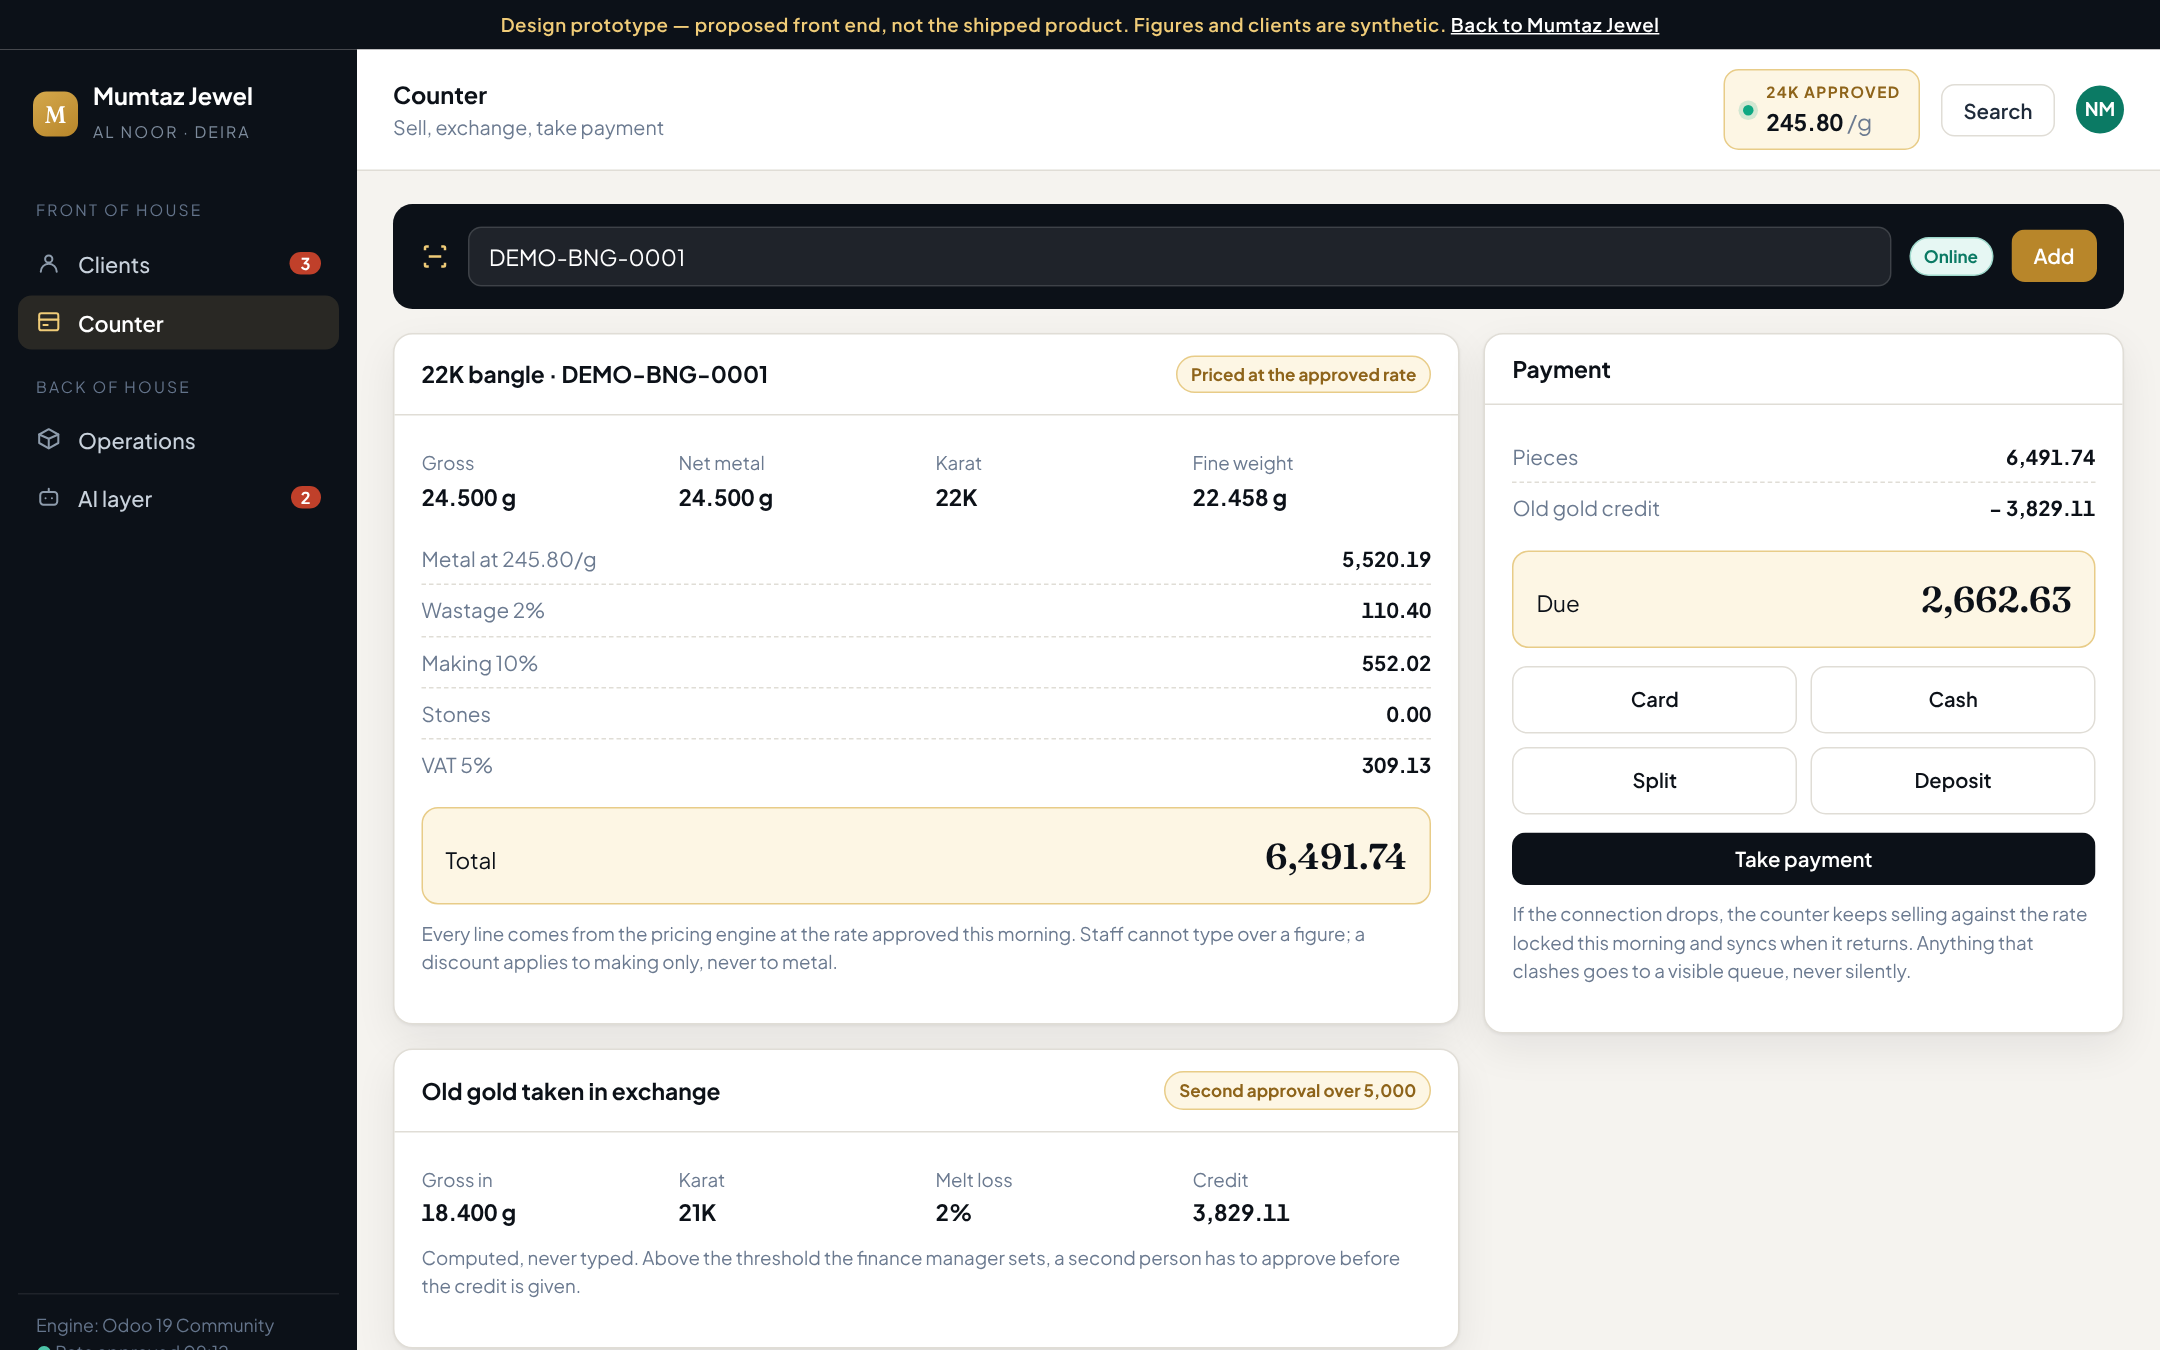
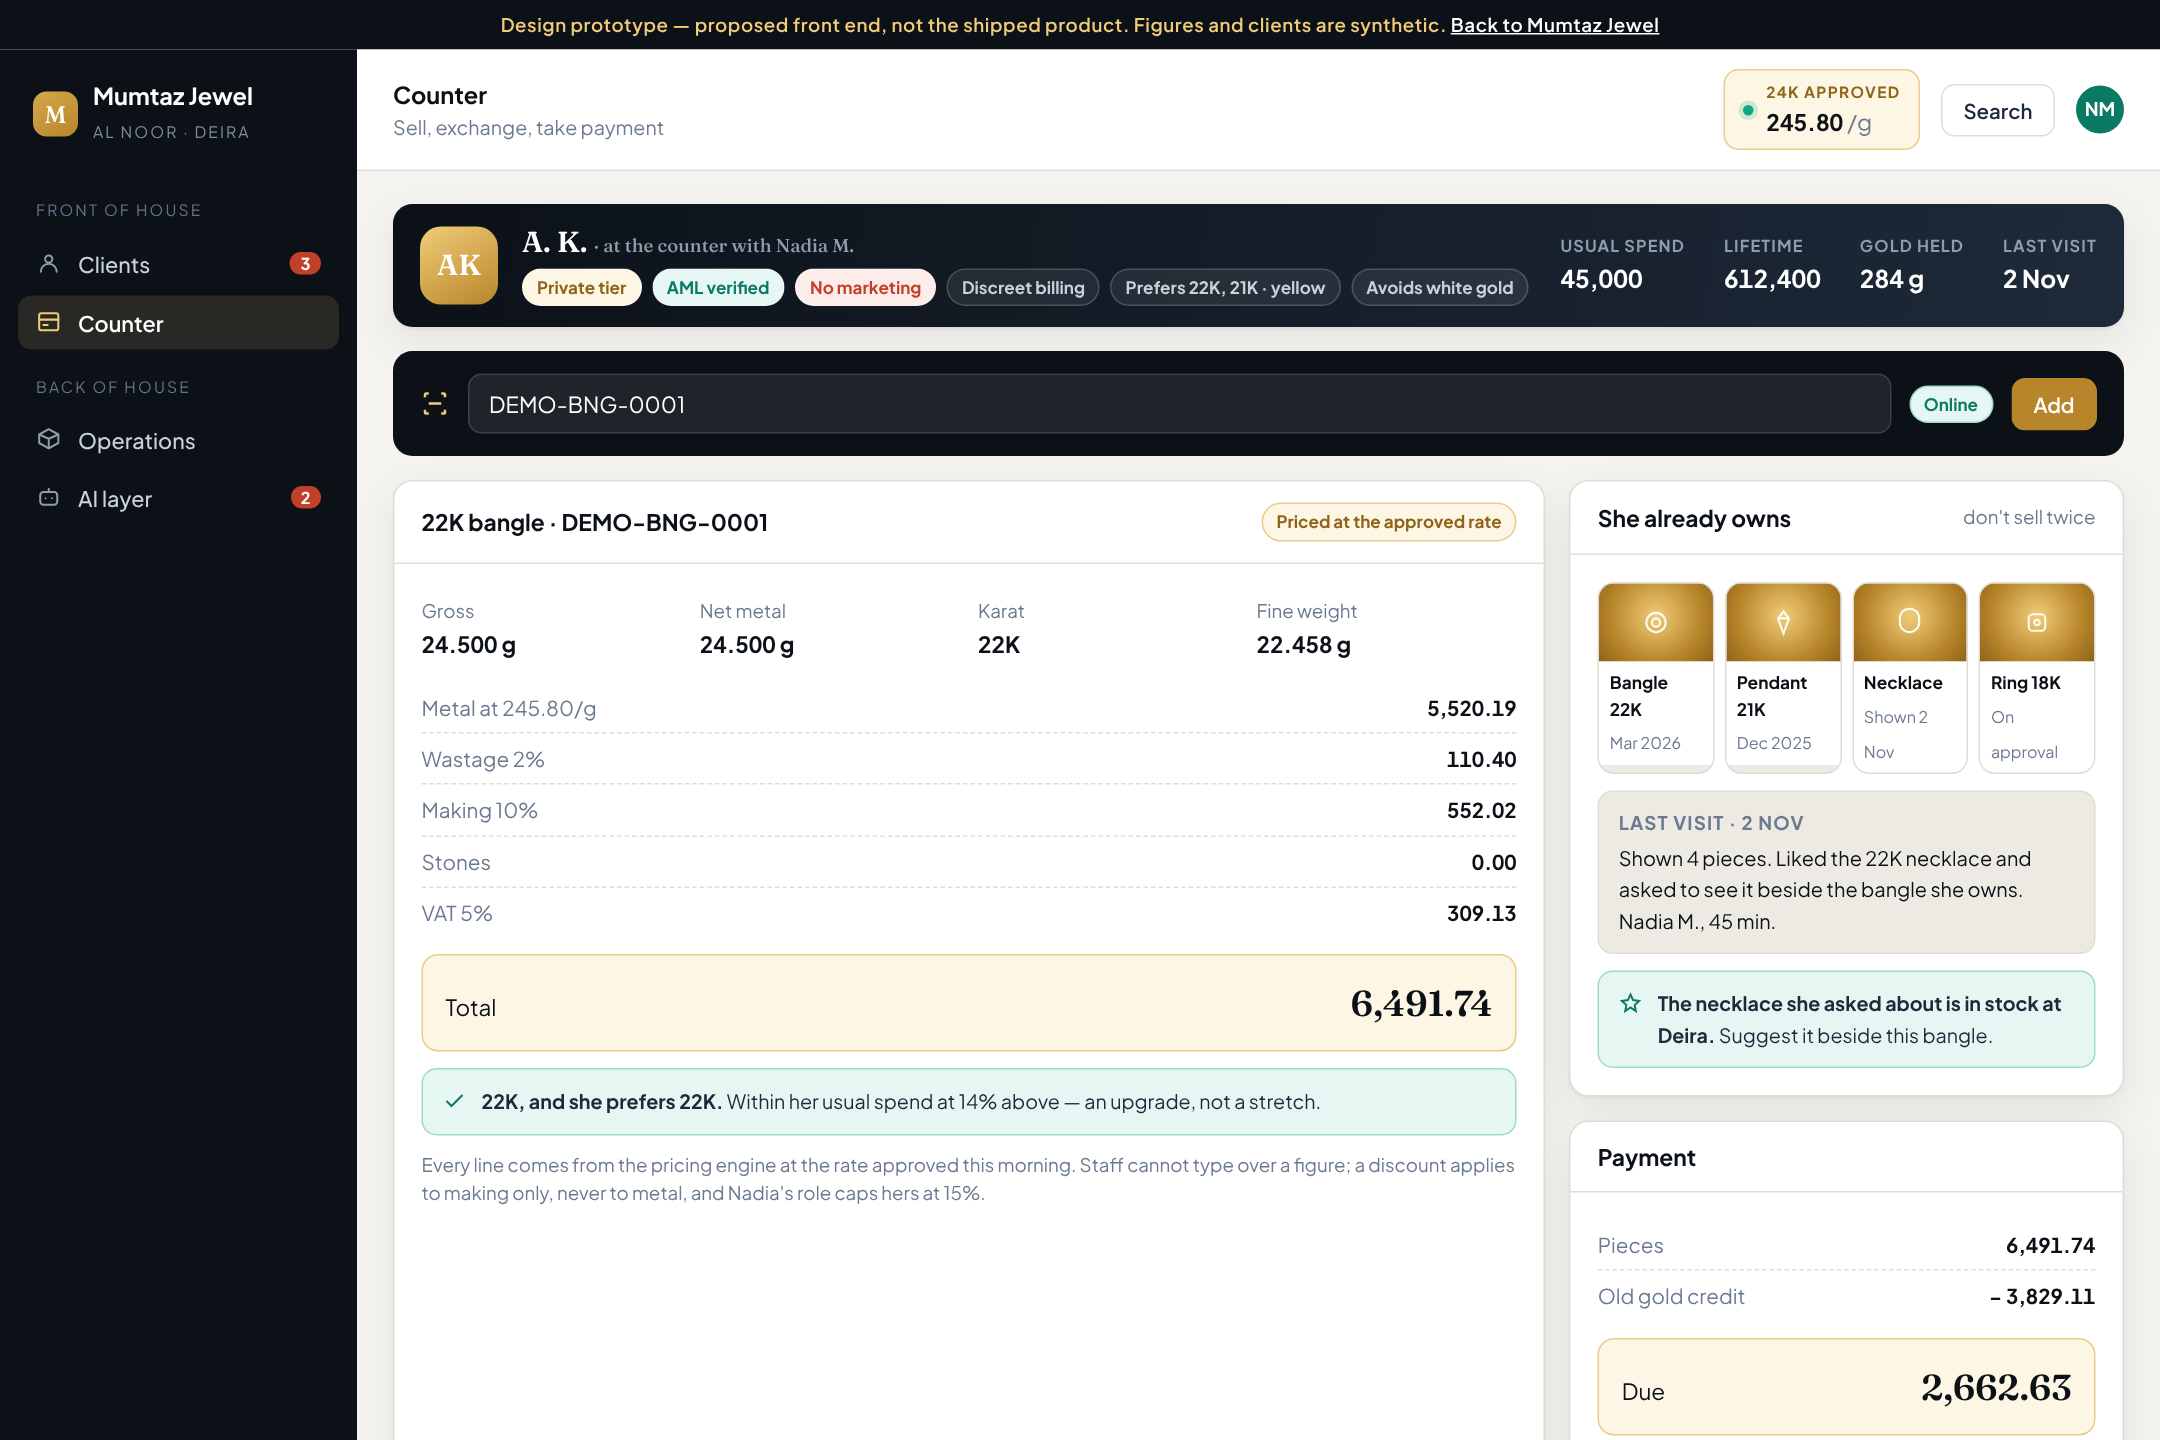
Counter: put the client file on the till, not behind a tab
The counter and Client 360 were two screens, which in practice means the
associate never opens the second one. They are now one.

Above the sale: a client strip with tier, AML status, discreet billing and
the no-marketing flag, plus preferences, usual spend, lifetime and gold held.
Beside the sale: the pieces she already owns, as photographs, so nobody sells
a second version of something she has; the note from her last visit, in her
associate's words; and the piece she asked about last time, flagged as in
stock.

The sale now checks itself against her file while it is rung up. The karat
matches her preference and the amount sits 14% above her usual spend, which
is shown as an upgrade rather than a flag. The old-gold panel says what her
gold held drops to once the exchange is taken in.

The part that earns its place: the payment panel warns that taking this sale
in cash moves her year-to-date cash from 38% to 104% of the configured
reporting threshold, and suggests card or split. A compliance limit is only
useful at the moment the money is counted, not in a report next month. The
threshold is still stated as configuration the finance manager sets per
country, never a rule the software invented.

Rendered at 1440 and 390 wide: no console errors, no horizontal scroll.

Claude-Session: https://claude.ai/code/session_018dxTtPFS3me13fvtELDnhU

diff --git a/website/jewel/preview/index.html b/website/jewel/preview/index.html
@@ -147,6 +147,31 @@ td{padding:11px 18px;border-top:1px solid var(--paper3)}
 .pay{display:grid;grid-template-columns:1fr 1fr;gap:9px;margin-top:12px}
 .paybtn{border:1px solid var(--paper3);background:var(--surface);border-radius:10px;padding:11px;text-align:center;font-size:.84rem;font-weight:600}
 
+/* counter: client context */
+.cstrip{display:grid;grid-template-columns:auto 1fr auto;gap:16px;align-items:center;padding:14px 18px;background:
+  linear-gradient(100deg,var(--ink) 0%,var(--rail2) 58%,#1E2A3A 100%);color:#fff;border-radius:var(--r);box-shadow:var(--shadow)}
+.cstrip .ava{width:52px;height:52px;border-radius:14px;font-size:1.2rem}
+.cstrip h3{font-family:var(--display);font-size:1.2rem;font-weight:600;color:#fff}
+.cstrip .meta{margin-top:6px}
+.cstrip .chip{border-color:rgba(255,255,255,.18)}
+.cstrip .c-dark{background:rgba(255,255,255,.08);color:#C9D2DC}
+.cstrip .facts div small{color:#8E9CAC}
+.cstrip .facts div b{color:#fff}
+.owns{display:grid;grid-template-columns:repeat(4,1fr);gap:7px}
+.owns .pc .im{height:52px}
+.owns .pc .im svg{width:22px;height:22px}
+.owns .pc .lb{padding:5px 7px}
+.owns .pc .lb b{font-size:.72rem}
+.owns .pc .lb span{font-size:.67rem}
+.warn{display:flex;gap:10px;align-items:flex-start;padding:11px 13px;background:var(--coral-bg);border:1px solid var(--coral-border);border-radius:10px;font-size:.82rem;color:var(--ink2);margin-top:11px}
+.warn svg{width:16px;height:16px;stroke:var(--coral);fill:none;stroke-width:2;flex:none;margin-top:2px}
+.ok{display:flex;gap:10px;align-items:flex-start;padding:11px 13px;background:var(--teal-bg);border:1px solid var(--teal-border);border-radius:10px;font-size:.82rem;color:var(--ink2);margin-top:11px}
+.ok svg{width:16px;height:16px;stroke:var(--teal);fill:none;stroke-width:2;flex:none;margin-top:2px}
+.lastv{padding:11px 13px;background:var(--paper2);border:1px solid var(--paper3);border-radius:10px;font-size:.83rem}
+.lastv b{display:block;font-size:.78rem;letter-spacing:.06em;text-transform:uppercase;color:var(--ink3);margin-bottom:4px}
+.counter3{display:grid;grid-template-columns:1.35fr .65fr;gap:16px;margin-top:16px}
+@media (max-width:1180px){.counter3{grid-template-columns:1fr}.cstrip{grid-template-columns:1fr;text-align:left}}
+
 /* agents */
 .agent{display:grid;grid-template-columns:auto 1fr auto;gap:14px;align-items:start;padding:16px 18px;border-top:1px solid var(--paper3)}
 .agent:first-of-type{border-top:0}
@@ -324,15 +349,38 @@ td{padding:11px 18px;border-top:1px solid var(--paper3)}
 
       <!-- ============ COUNTER / POS ============ -->
       <section class="screen" id="s-pos">
-        <div class="scan" style="margin-bottom:16px">
+
+        <div class="cstrip">
+          <div class="ava">AK</div>
+          <div>
+            <h3>A. K. <span class="tiny" style="font-weight:400;color:#8E9CAC">· at the counter with Nadia M.</span></h3>
+            <div class="meta">
+              <span class="chip c-gold">Private tier</span>
+              <span class="chip c-teal">AML verified</span>
+              <span class="chip c-coral">No marketing</span>
+              <span class="chip c-dark">Discreet billing</span>
+              <span class="chip c-dark">Prefers 22K, 21K · yellow</span>
+              <span class="chip c-dark">Avoids white gold</span>
+            </div>
+          </div>
+          <div class="facts">
+            <div><small>Usual spend</small><b class="num">45,000</b></div>
+            <div><small>Lifetime</small><b class="num">612,400</b></div>
+            <div><small>Gold held</small><b class="num">284 g</b></div>
+            <div><small>Last visit</small><b>2 Nov</b></div>
+          </div>
+        </div>
+
+        <div class="scan" style="margin-top:16px">
           <svg viewBox="0 0 24 24" style="width:20px;height:20px;stroke:var(--gold3);fill:none;stroke-width:2"><path d="M4 7V5a1 1 0 011-1h2M17 4h2a1 1 0 011 1v2M20 17v2a1 1 0 01-1 1h-2M7 20H5a1 1 0 01-1-1v-2M7 12h10"/></svg>
           <input placeholder="Scan a tag, or type a piece number…" value="DEMO-BNG-0001">
           <span class="chip c-teal">Online</span>
           <button class="btn b-gold">Add</button>
         </div>
 
-        <div class="pos">
+        <div class="counter3">
           <div class="g" style="gap:16px">
+
             <div class="card">
               <div class="hd"><h3>22K bangle · DEMO-BNG-0001</h3><span class="sp"></span><span class="chip c-gold">Priced at the approved rate</span></div>
               <div class="pad">
@@ -350,7 +398,11 @@ td{padding:11px 18px;border-top:1px solid var(--paper3)}
                   <div class="r"><span class="muted">VAT 5%</span><b class="num">309.13</b></div>
                 </div>
                 <div class="tot"><span>Total</span><b class="num">6,491.74</b></div>
-                <p class="note">Every line comes from the pricing engine at the rate approved this morning. Staff cannot type over a figure; a discount applies to making only, never to metal.</p>
+                <div class="ok">
+                  <svg viewBox="0 0 24 24"><path d="M20 6L9 17l-5-5"/></svg>
+                  <div><b>22K, and she prefers 22K.</b> Within her usual spend at 14% above — an upgrade, not a stretch.</div>
+                </div>
+                <p class="note">Every line comes from the pricing engine at the rate approved this morning. Staff cannot type over a figure; a discount applies to making only, never to metal, and Nadia's role caps hers at 15%.</p>
               </div>
             </div>
 
@@ -363,28 +415,58 @@ td{padding:11px 18px;border-top:1px solid var(--paper3)}
                   <div><small class="tiny muted">Melt loss</small><div><b class="num">2%</b></div></div>
                   <div><small class="tiny muted">Credit</small><div><b class="num">3,829.11</b></div></div>
                 </div>
-                <p class="note">Computed, never typed. Above the threshold the finance manager sets, a second person has to approve before the credit is given.</p>
+                <p class="note">Computed, never typed. Her gold held drops to 266 g once this is taken in, and the client file records which piece it came from.</p>
               </div>
             </div>
+
           </div>
 
-          <div class="card" style="align-self:start">
-            <div class="hd"><h3>Payment</h3></div>
-            <div class="pad">
-              <div class="brk">
-                <div class="r"><span class="muted">Pieces</span><b class="num">6,491.74</b></div>
-                <div class="r"><span class="muted">Old gold credit</span><b class="num">− 3,829.11</b></div>
+          <div class="g" style="gap:16px;align-content:start">
+
+            <div class="card">
+              <div class="hd"><h3>She already owns</h3><span class="sp"></span><span class="tiny muted">don't sell twice</span></div>
+              <div class="pad">
+                <div class="owns">
+                  <div class="pc"><div class="im"><svg viewBox="0 0 24 24"><circle cx="12" cy="12" r="7"/><circle cx="12" cy="12" r="3"/></svg></div><div class="lb"><b>Bangle 22K</b><span>Mar 2026</span></div></div>
+                  <div class="pc"><div class="im"><svg viewBox="0 0 24 24"><path d="M12 4l4 5-4 11-4-11z"/><path d="M8 9h8"/></svg></div><div class="lb"><b>Pendant 21K</b><span>Dec 2025</span></div></div>
+                  <div class="pc"><div class="im"><svg viewBox="0 0 24 24"><path d="M5 12a7 7 0 1014 0"/><path d="M5 12V9a7 7 0 0114 0v3"/></svg></div><div class="lb"><b>Necklace</b><span>Shown 2 Nov</span></div></div>
+                  <div class="pc"><div class="im"><svg viewBox="0 0 24 24"><rect x="6" y="6" width="12" height="12" rx="3"/><circle cx="12" cy="12" r="2"/></svg></div><div class="lb"><b>Ring 18K</b><span>On approval</span></div></div>
+                </div>
+                <div class="lastv" style="margin-top:11px">
+                  <b>Last visit · 2 Nov</b>
+                  Shown 4 pieces. Liked the 22K necklace and asked to see it beside the bangle she owns. Nadia M., 45 min.
+                </div>
+                <div class="ok">
+                  <svg viewBox="0 0 24 24"><path d="M12 3l2.6 5.6 6 .8-4.4 4.2 1.1 6L12 15.9 6.7 19.6l1.1-6L3.4 9.4l6-.8z"/></svg>
+                  <div><b>The necklace she asked about is in stock at Deira.</b> Suggest it beside this bangle.</div>
+                </div>
               </div>
-              <div class="tot"><span>Due</span><b class="num">2,662.63</b></div>
-              <div class="pay">
-                <div class="paybtn">Card</div>
-                <div class="paybtn">Cash</div>
-                <div class="paybtn">Split</div>
-                <div class="paybtn">Deposit</div>
-              </div>
-              <button class="btn b-dark" style="width:100%;margin-top:12px">Take payment</button>
-              <p class="note">If the connection drops, the counter keeps selling against the rate locked this morning and syncs when it returns. Anything that clashes goes to a visible queue, never silently.</p>
             </div>
+
+            <div class="card">
+              <div class="hd"><h3>Payment</h3></div>
+              <div class="pad">
+                <div class="brk">
+                  <div class="r"><span class="muted">Pieces</span><b class="num">6,491.74</b></div>
+                  <div class="r"><span class="muted">Old gold credit</span><b class="num">− 3,829.11</b></div>
+                </div>
+                <div class="tot"><span>Due</span><b class="num">2,662.63</b></div>
+                <div class="pay">
+                  <div class="paybtn">Card</div>
+                  <div class="paybtn">Cash</div>
+                  <div class="paybtn">Split</div>
+                  <div class="paybtn">Deposit</div>
+                </div>
+                <div class="warn">
+                  <svg viewBox="0 0 24 24"><path d="M12 9v4M12 17h.01"/><path d="M10.3 3.9L1.8 18a2 2 0 001.7 3h17a2 2 0 001.7-3L13.7 3.9a2 2 0 00-3.4 0z"/></svg>
+                  <div><b>Taking this in cash crosses the reporting threshold.</b>
+                  Her year-to-date cash goes from 38% to 104% of the configured limit. Card or split keeps it under. The threshold is set by the finance manager, per country.</div>
+                </div>
+                <button class="btn b-dark" style="width:100%;margin-top:12px">Take payment</button>
+                <p class="note">Discreet billing is on, so the invoice goes to her billing contact, not to her. If the connection drops the counter keeps selling against the locked rate and reconciles after.</p>
+              </div>
+            </div>
+
           </div>
         </div>
       </section>

diff --git a/website/jewel/index.html b/website/jewel/index.html
@@ -368,14 +368,19 @@ footer{border-top:1px solid var(--paper3);padding:34px 0 48px;color:var(--ink3);
 
       <div class="shot">
         <a href="preview/#pos"><img src="site/img/ui-pos.png" loading="lazy" width="2160" height="1350"
-             alt="Counter screen: tag scan, a piece with its full price breakdown, old gold taken in exchange, and a payment panel."></a>
+             alt="Counter screen with the client in context: a dark client strip with tier, AML status and preferences, the piece priced from the approved rate, what the client already owns, the last visit note, and a payment panel warning that cash would cross the reporting threshold."></a>
         <div class="cap">
-          <b>The counter</b>
-          <span>Scan the tag, see the piece priced from this morning's approved
-          rate with every component shown, take old gold in exchange at a
-          computed credit, and split the payment. Nobody types over a figure,
-          and if the connection drops the counter keeps selling against the
-          locked rate and reconciles afterwards.</span>
+          <b>The counter, with the client on it</b>
+          <span>The client file is not a separate page the associate forgets to
+          open — it is the top of the till. Tier, AML status, discreet billing
+          and "no marketing" sit above the sale; the piece is priced from this
+          morning's approved rate; beside it is what she already owns, so
+          nobody sells her a second version of the same thing, and the note
+          from her last visit. The sale checks itself against her file as it
+          is rung up: the karat matches her preference, the amount sits just
+          above her usual spend — and <b>taking this one in cash would cross
+          the reporting threshold</b>, so the till says so before the money is
+          counted, not after.</span>
         </div>
       </div>
     </div>
